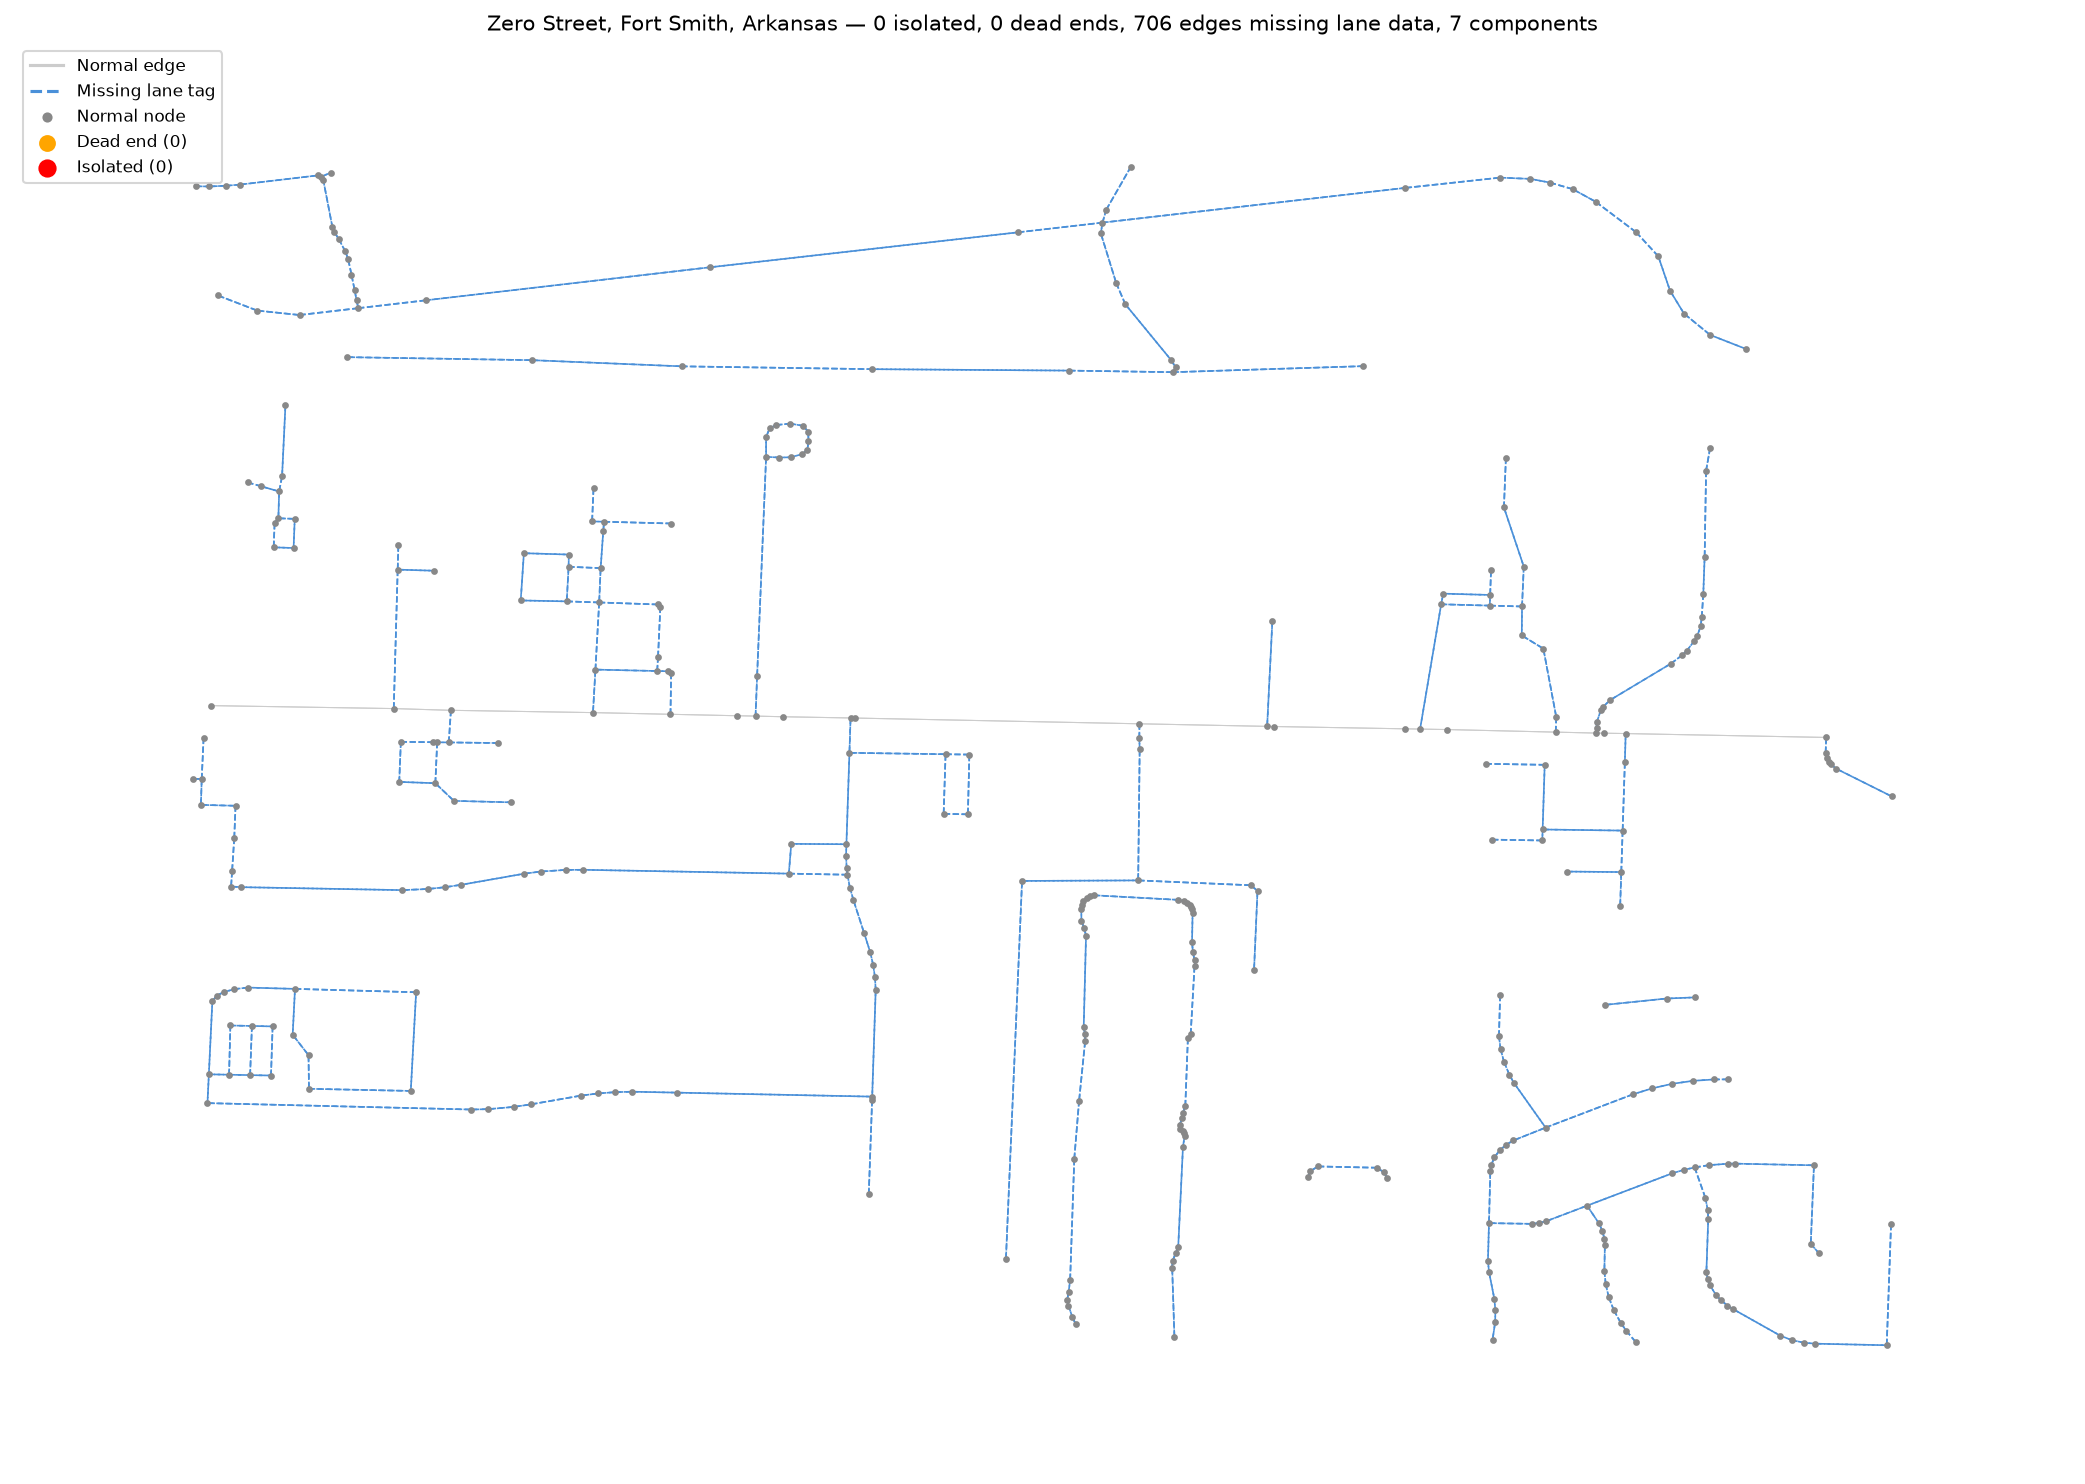
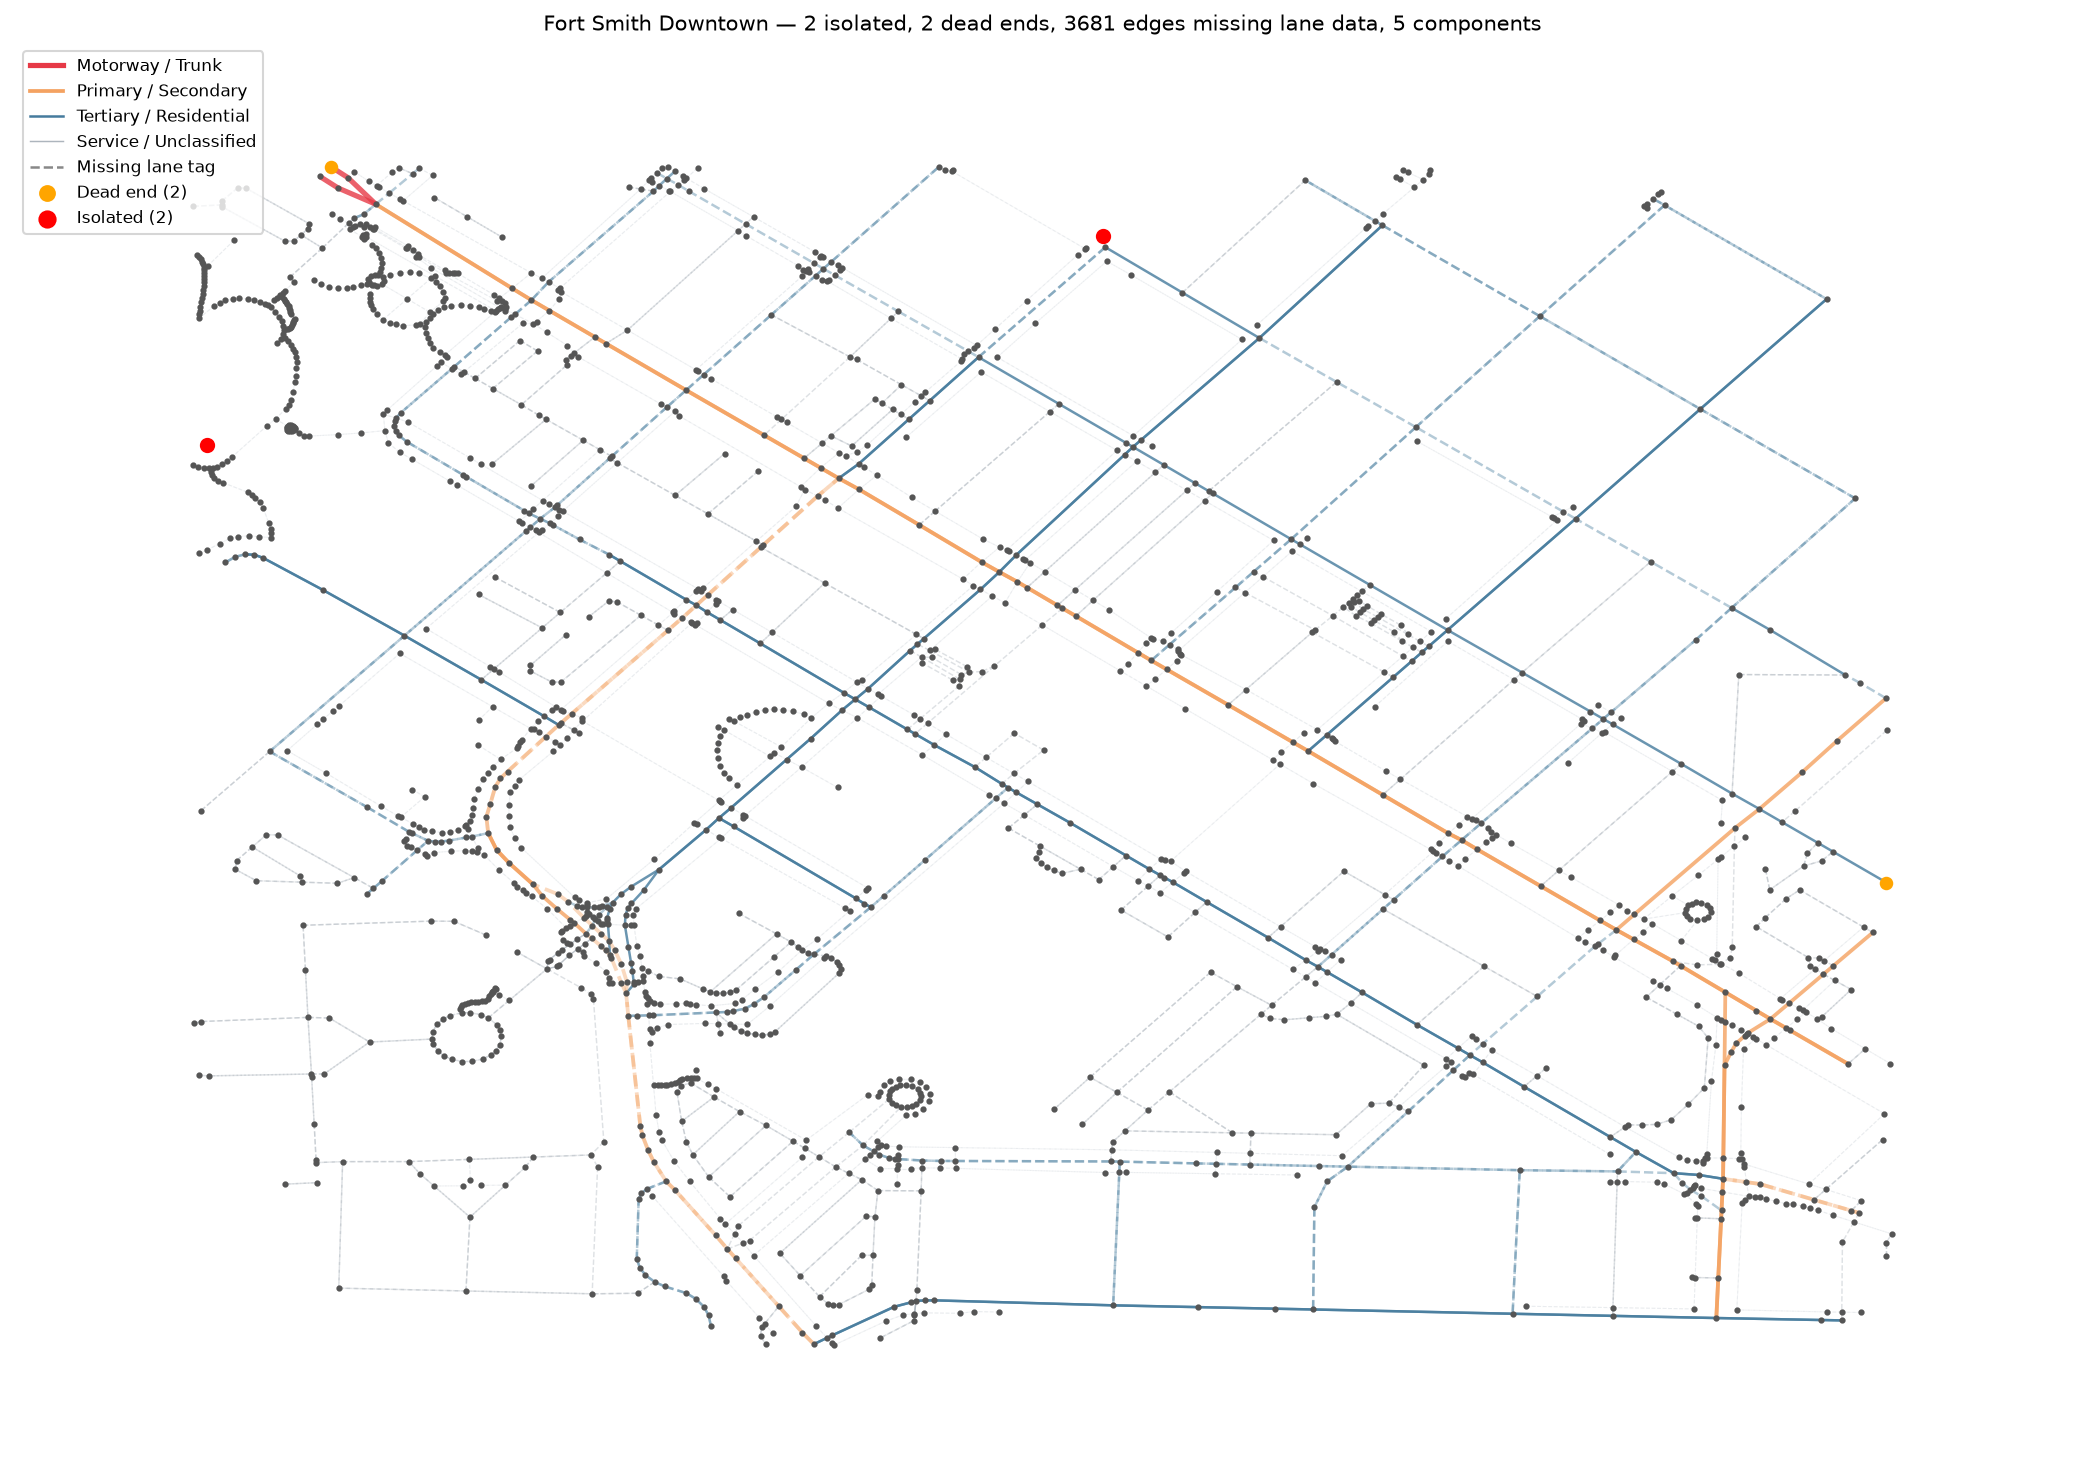
feat: parse and visualize OSM turn restrictions
Extend Overpass query to fetch restriction relations. Parse from/via/to
members and restriction type. Surface count in health check output with
per-type breakdown. Render via nodes as purple markers on interactive map.

diff --git a/src/parse.py b/src/parse.py
@@ -42,6 +42,34 @@ def build_graph(osm_data: dict) -> nx.DiGraph:
     return G
 
 
+def parse_restrictions(osm_data: dict) -> list[dict]:
+    """Extract turn restriction relations from raw OSM data."""
+    restrictions = []
+    for el in osm_data["elements"]:
+        if el["type"] != "relation":
+            continue
+        tags = el.get("tags", {})
+        if tags.get("type") != "restriction":
+            continue
+
+        members = el.get("members", [])
+        from_way = next((m["ref"] for m in members if m["role"] == "from" and m["type"] == "way"), None)
+        to_way = next((m["ref"] for m in members if m["role"] == "to" and m["type"] == "way"), None)
+        via_node = next((m["ref"] for m in members if m["role"] == "via" and m["type"] == "node"), None)
+
+        restriction_type = tags.get("restriction") or tags.get("restriction:conditional", "unknown")
+
+        if from_way and to_way:
+            restrictions.append({
+                "relation_id": el["id"],
+                "from_way": from_way,
+                "via_node": via_node,
+                "to_way": to_way,
+                "type": restriction_type,
+            })
+    return restrictions
+
+
 def clip_to_bbox(G: nx.DiGraph, bbox: dict) -> nx.DiGraph:
     in_bounds = {
         n for n in G.nodes

diff --git a/src/visualize_interactive.py b/src/visualize_interactive.py
@@ -115,6 +115,32 @@ def visualize_interactive(
     layer_dead_ends.add_to(m)
     layer_isolated.add_to(m)
 
+    # --- turn restriction via nodes ---
+    layer_restrictions = folium.FeatureGroup(name="Turn restrictions", show=True)
+    for r in issues.get("turn_restrictions", []):
+        via = r["via_node"]
+        if via is None or via not in G.nodes:
+            continue
+        nd = G.nodes[via]
+        popup_html = (
+            f"<b>Turn Restriction</b><br>"
+            f"Type: <b>{r['type']}</b><br>"
+            f"From way: {r['from_way']}<br>"
+            f"To way: {r['to_way']}<br>"
+            f"Relation ID: {r['relation_id']}"
+        )
+        folium.CircleMarker(
+            location=[nd["lat"], nd["lon"]],
+            radius=8,
+            color="#6a0dad",
+            fill=True,
+            fill_color="#6a0dad",
+            fill_opacity=0.85,
+            popup=folium.Popup(popup_html, max_width=220),
+            tooltip=r["type"],
+        ).add_to(layer_restrictions)
+    layer_restrictions.add_to(m)
+
     # --- legend ---
     legend_html = f"""
     <div style="position:fixed; bottom:30px; left:30px; z-index:1000;
@@ -128,6 +154,7 @@ def visualize_interactive(
         <span style="color:#888; font-size:10px">&#9644; &#9644;</span> Missing lane tag<br>
         <span style="color:orange">&#9679;</span> Dead end ({len(dead_end_set)})<br>
         <span style="color:red">&#9679;</span> Isolated ({len(isolated_set)})<br>
+        <span style="color:#6a0dad">&#9679;</span> Turn restriction ({len(issues.get('turn_restrictions', []))})<br>
         <hr style="margin:4px 0">
         Components: {len(issues['components'])}
     </div>

diff --git a/main.py b/main.py
@@ -3,7 +3,7 @@ import json
 import os
 
 from src.ingest import query_osm, save_raw, geocode_location, FORT_SMITH_DOWNTOWN
-from src.parse import build_graph, clip_to_bbox
+from src.parse import build_graph, clip_to_bbox, parse_restrictions
 from src.health import run_health_checks
 from src.visualize import visualize
 from src.visualize_interactive import visualize_interactive
@@ -51,9 +51,11 @@ def main():
             json.dump({"bbox": bbox, "location": location}, f, indent=2)
 
     G = clip_to_bbox(build_graph(data), bbox)
+    restrictions = parse_restrictions(data)
     print(f"Graph: {G.number_of_nodes()} nodes, {G.number_of_edges()} edges")
+    print(f"Turn restrictions: {len(restrictions)}")
 
-    issues = run_health_checks(G)
+    issues = run_health_checks(G, restrictions)
     print(f"Health check results:")
     print(f"  Isolated nodes     : {len(issues['isolated_nodes'])}")
     print(f"  Dead ends          : {len(issues['dead_ends'])}")
@@ -65,6 +67,10 @@ def main():
     for rc in sorted(issues["missing_lanes_by_class"]):
         count = len(issues["missing_lanes_by_class"][rc])
         print(f"    class {rc} ({class_labels.get(rc, 'other')}): {count} edges")
+    if issues["turn_restrictions_by_type"]:
+        print(f"  Turn restriction breakdown:")
+        for rtype, items in sorted(issues["turn_restrictions_by_type"].items()):
+            print(f"    {rtype}: {len(items)}")
 
     visualize(G, issues, location)
     if not args.no_interactive:

diff --git a/src/health.py b/src/health.py
@@ -1,7 +1,7 @@
 import networkx as nx
 
 
-def run_health_checks(G: nx.DiGraph) -> dict:
+def run_health_checks(G: nx.DiGraph, restrictions: list | None = None) -> dict:
     missing_lane_edges = [(u, v) for u, v, d in G.edges(data=True) if d.get("lanes") is None]
 
     # group missing lane edges by road class — lower tier = higher severity
@@ -10,12 +10,19 @@ def run_health_checks(G: nx.DiGraph) -> dict:
         rc = G[u][v].get("road_class", 8)
         missing_by_class.setdefault(rc, []).append((u, v))
 
+    restrictions = restrictions or []
+    restriction_by_type: dict[str, list] = {}
+    for r in restrictions:
+        restriction_by_type.setdefault(r["type"], []).append(r)
+
     issues = {
         "isolated_nodes": list(nx.isolates(G)),
         "dead_ends": [n for n in G.nodes if G.out_degree(n) == 0 and G.in_degree(n) > 0],
         "missing_lane_edges": missing_lane_edges,
         "missing_lanes_by_class": missing_by_class,
         "components": list(nx.weakly_connected_components(G)),
+        "turn_restrictions": restrictions,
+        "turn_restrictions_by_type": restriction_by_type,
     }
     issues["disconnected"] = len(issues["components"]) > 1
     return issues

diff --git a/src/ingest.py b/src/ingest.py
@@ -51,7 +51,8 @@ def query_osm(bbox: dict) -> dict:
     [out:json][timeout:25];
     way["highway"]({bbox['south']},{bbox['west']},{bbox['north']},{bbox['east']})->.roads;
     node(w.roads)->.nodes;
-    (.roads; .nodes;);
+    relation["type"="restriction"]({bbox['south']},{bbox['west']},{bbox['north']},{bbox['east']})->.restrictions;
+    (.roads; .nodes; .restrictions;);
     out body qt;
     """
 
@@ -81,6 +82,8 @@ if __name__ == "__main__":
     
     nodes = [e for e in data["elements"] if e["type"] == "node"]
     ways = [e for e in data["elements"] if e["type"] == "way"]
+    relations = [e for e in data["elements"] if e["type"] == "relation"]
     print(f"\nSummary:")
-    print(f"  Nodes : {len(nodes)}")
-    print(f"  Ways  : {len(ways)}")
+    print(f"  Nodes     : {len(nodes)}")
+    print(f"  Ways      : {len(ways)}")
+    print(f"  Relations : {len(relations)}")